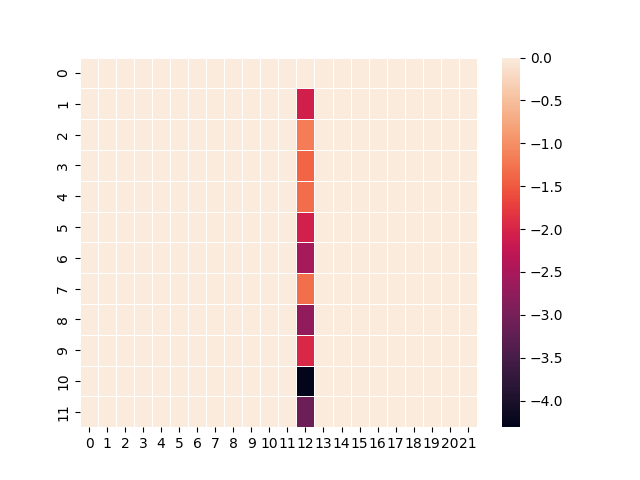
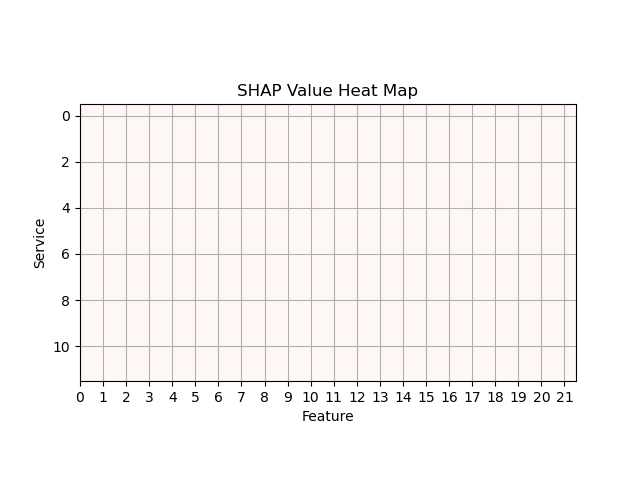
center align frontend image

diff --git a/frontend/web/index.html b/frontend/web/index.html
@@ -3,10 +3,18 @@
 <head>
     <style>
         body {
-          background-color: #333;
-          color: #fff;
-          margin: 0;
-          padding: 20px;
+            background-color: #333;
+            color: #fff;
+            margin: 0;
+            padding: 20px;
+            display: flex;
+            justify-content: center;
+        }
+
+        h1 {
+            font-size: 32px;
+            text-align: center;
+            margin-top: 40px;
         }
     
         .image-container {
@@ -41,11 +49,12 @@
 
     <h1>SHAP Value Heat Map</h1> -->
 
+    <h1>Fault Detection Dashboard</h1>
+
     <div class="image-container">
         <img src="../plots/serviceGraph.png" title="Service Graph" alt="Micro Service Graph" style="width:auto; height:500px">
         <img src="../plots/heatmap.png" title="SHAP Value Heat Map" alt="Heat Map" style="width:auto; height:500px">
     </div>
     
-
 </body>
 </html>

diff --git a/frontend/localization.py b/frontend/localization.py
@@ -369,20 +369,21 @@ class Localize():
         # heat_maps_per_timestep = np.stack([shap_vals_cpy[i]/shap_vals_cpy[i].sum() for i in range(shap_vals_cpy.shape[0])])
         print(heat_maps_per_timestep.shape)
         heatmap = np.sum(heat_maps_per_timestep,axis=0)
-        plt.imshow(heatmap)
-        plt.title("SHAP Value Heat Map")
-        plt.savefig("plots/heatmap.png")
-        # ax = sns.heatmap(heatmap,linewidth=0.5)
-        # fig = ax.get_figure()
-        # del ax
+        # plt.imshow(heatmap, cmap="pink")
+        # plt.title("SHAP Value Heat Map")
+        # plt.savefig("plots/heatmap.png")
+        ax = sns.heatmap(heatmap,linewidth=0.5)
+        fig = ax.get_figure()
+        del ax
 
-        # if not os.path.exists('plots/'):
-        #     os.mkdir('plots/')
-        # if os.path.exists('plots/heatmap.png'):
-        #     os.remove('plots/heatmap.png')
-        # fig.savefig('plots/heatmap.png')
-        # del fig
-            # get shap values of detected anomalies
+        if not os.path.exists('plots/'):
+            os.mkdir('plots/')
+        if os.path.exists('plots/heatmap.png'):
+            os.remove('plots/heatmap.png')
+        fig.savefig('plots/heatmap.png')
+        del fig
+        plt.close()
+        # get shap values of detected anomalies
         shap_values_of_detected_anomalies = heat_maps_per_timestep[detected_anom_timesteps,:,:]
         print(shap_values_of_detected_anomalies.shape)
 

diff --git a/frontend/main.py b/frontend/main.py
@@ -31,7 +31,7 @@ std_train_t = torch.tensor(std_train.values)
 # print("std shape:", std_train_t.shape)
 
 heatmap = np.zeros((12,22))
-plt.imshow(heatmap)
+plt.imshow(heatmap, cmap="pink")
 plt.title("SHAP Value Heat Map")
 plt.savefig("plots/heatmap.png")
 
